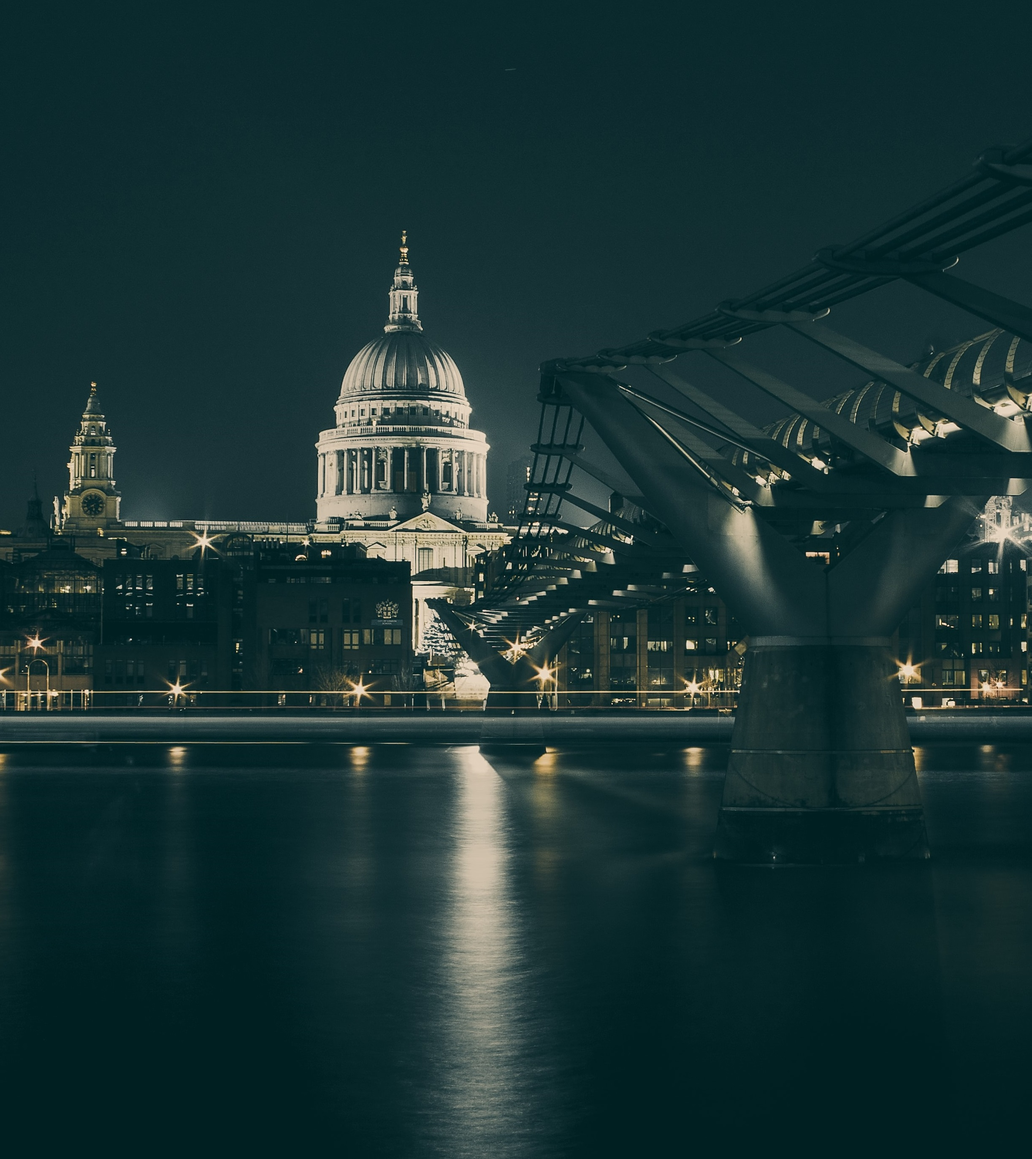
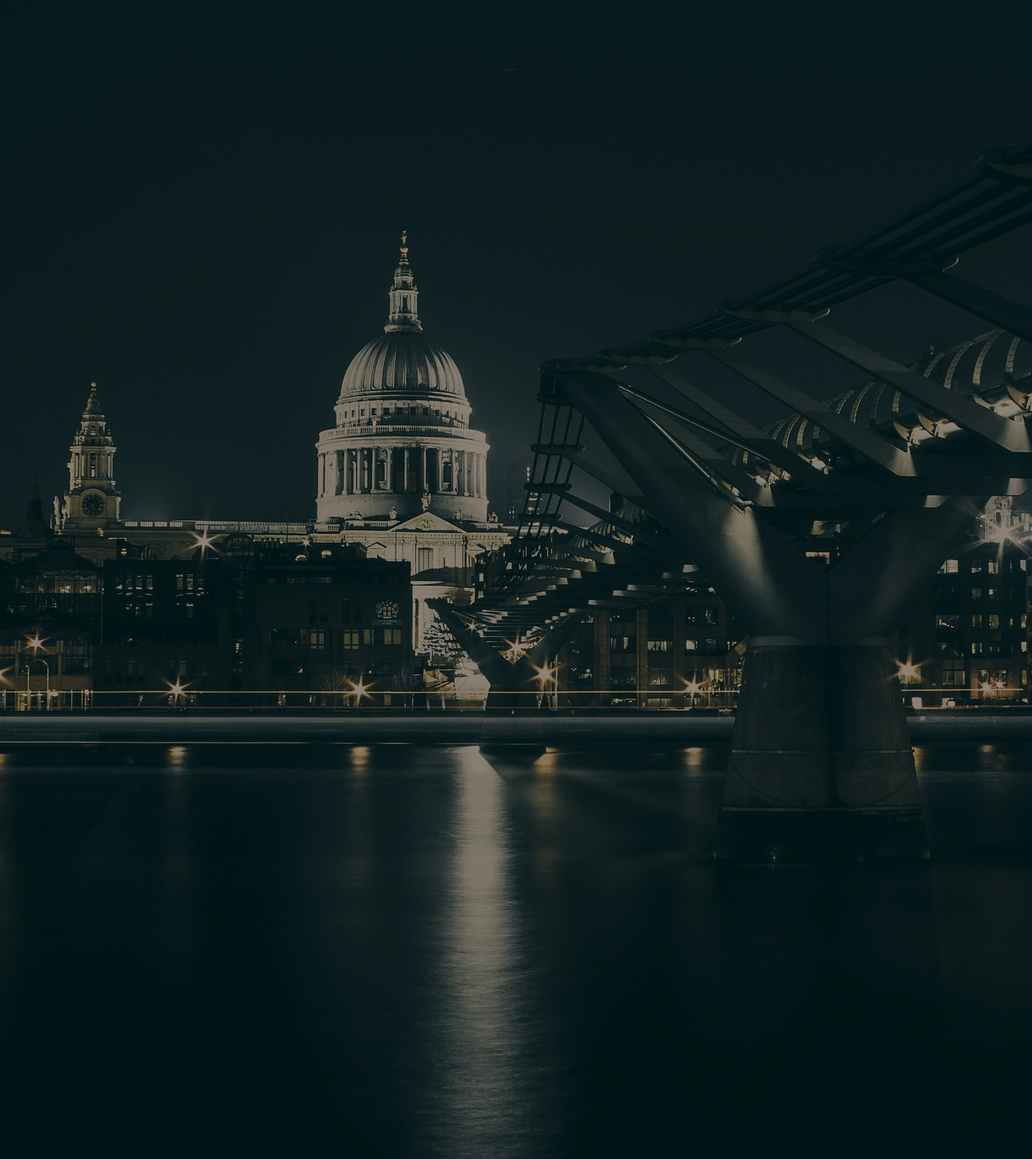
finished up login screen

diff --git a/www/index.html b/www/index.html
@@ -40,8 +40,8 @@
         <script src="js/jquerymobile.js"></script>
     </head>
     <body>
-        <div data-role="page" id="loginpage">
-            <div class="site-wrapper login" data-role="main">
+        <div data-role="page" id="loginpage" class="login">
+            <div data-role="main">
                 <div class="container">
                     <div class="intro">
                         <h2>Welcome to</h2>
@@ -54,10 +54,10 @@
                         <label for="inputPass" class="sr-only">Password</label>
                         <input data-role="none" name="inputPass" type="password" id="inputPass" class="form-control" placeholder="Password" required>
                         <button data-role="none" class="btn btn-lg btn-primary btn-block" type="submit">Login</button>
-                        <a class="small" href="#passpage" data-transition="slidedown">Forgot your password or username?</a>
+                        <a class="small" href="#passpage" data-transition="slide" data-direction="reverse">Forgot your password or username?</a>
                     </form>
                     <form class="signinform margintop">
-                        <a href="#signuppage" data-transition="slidedown"><button data-role="none" class="btn btn-lg btn-primary btn-block" type="submit">Sign Up</button></a>
+                        <a href="#signuppage" data-transition="slide"><button data-role="none" class="btn btn-lg btn-primary btn-block" type="submit">Sign Up</button></a>
                     </form>
                 </div>
             </div>
@@ -90,16 +90,13 @@
                             }else{
                                 errorinfo("Oops something went wrong with the server, error code: " + data);
                             }
-                        },
-                        error: function(xhr, status, error) {
-                            alert("error: "+xhr.responseText);
                         }
                     });
                 });
             </script>
         </div>
-        <div data-role="page" id="signuppage" >
-            <div class="site-wrapper signup">
+        <div data-role="page" id="signuppage" class="signup">
+            <div data-role="main">
                 <div class="container">
                     <div class="intro">
                         <h1>Sign Up</h1>
@@ -123,7 +120,7 @@
                         </div>
                     </form>
                     <form class="signinform margintop">
-                        <a data-rel="back"><button data-role="none" class="btn btn-lg btn-primary btn-block" type="submit">Log In</button></a>
+                        <a data-rel="back" data-direction="reverse"><button data-role="none" class="btn btn-lg btn-primary btn-block" type="submit">Log In</button></a>
                     </form>
                 </div>
             </div>
@@ -174,8 +171,8 @@
                 });
             </script>
         </div>
-        <div data-role="page" id="passpage">
-            <div class="site-wrapper" data-role="main" class="password">
+        <div data-role="page" id="passpage" class="password">
+            <div data-role="main">
                 <div class="container">
                     <div class="intro">
                         <h1>Password Reset</h1>
@@ -199,7 +196,7 @@
                         </form>
                     </div>
                     <form class="signinform margintop">
-                        <a data-rel="back"><button data-role="none" class="btn btn-lg btn-primary btn-block" type="submit">Log In</button></a>
+                        <a data-rel="back" data-direction="reverse"><button data-role="none" class="btn btn-lg btn-primary btn-block" type="submit">Log In</button></a>
                     </form>
                 </div>
             </div>

diff --git a/www/css/index.css b/www/css/index.css
@@ -35,6 +35,13 @@ body {
     padding:0px;
     width:100%;
 }
+.ui-page {
+    background: transparent;
+    -webkit-backface-visibility: hidden;
+}
+.ui-content{
+    background: transparent;
+}
 .login{
     background: url("../img/background.jpg") no-repeat center center fixed;
     background-size: cover;
@@ -44,12 +51,6 @@ body {
 }
 .signup{
     background: #001f3f;
-}
-.site-wrapper {
-    display: block;
-    width: 100%;
-    background-color: rgba(0,0,0, 0.5);
-    height: 100%;
 }
 /* Portrait layout (default) */
 .app {

diff --git a/www/css/style.css b/www/css/style.css
@@ -20,7 +20,13 @@ a{
     display: inline;
     word-wrap: break-word;
 }
-.ui-page { -webkit-backface-visibility: hidden; }
+.ui-page {
+    background: transparent;
+    -webkit-backface-visibility: hidden;
+}
+.ui-content{
+    background: transparent;
+}
 #content{
     background-color: #e9eaed;
     -webkit-overflow-scrolling: touch;

diff --git a/www/stack.html b/www/stack.html
@@ -63,7 +63,7 @@
         });
     </script>
 <body>
-<div class="footer">
+<div class="footer" data-role="footer" data-position="fixed">
     <div class="center botmenu">
         <a class="stacklink" onclick="refreshPage(this)" data-link="0">
             <div class="quarter" id="topstack">
